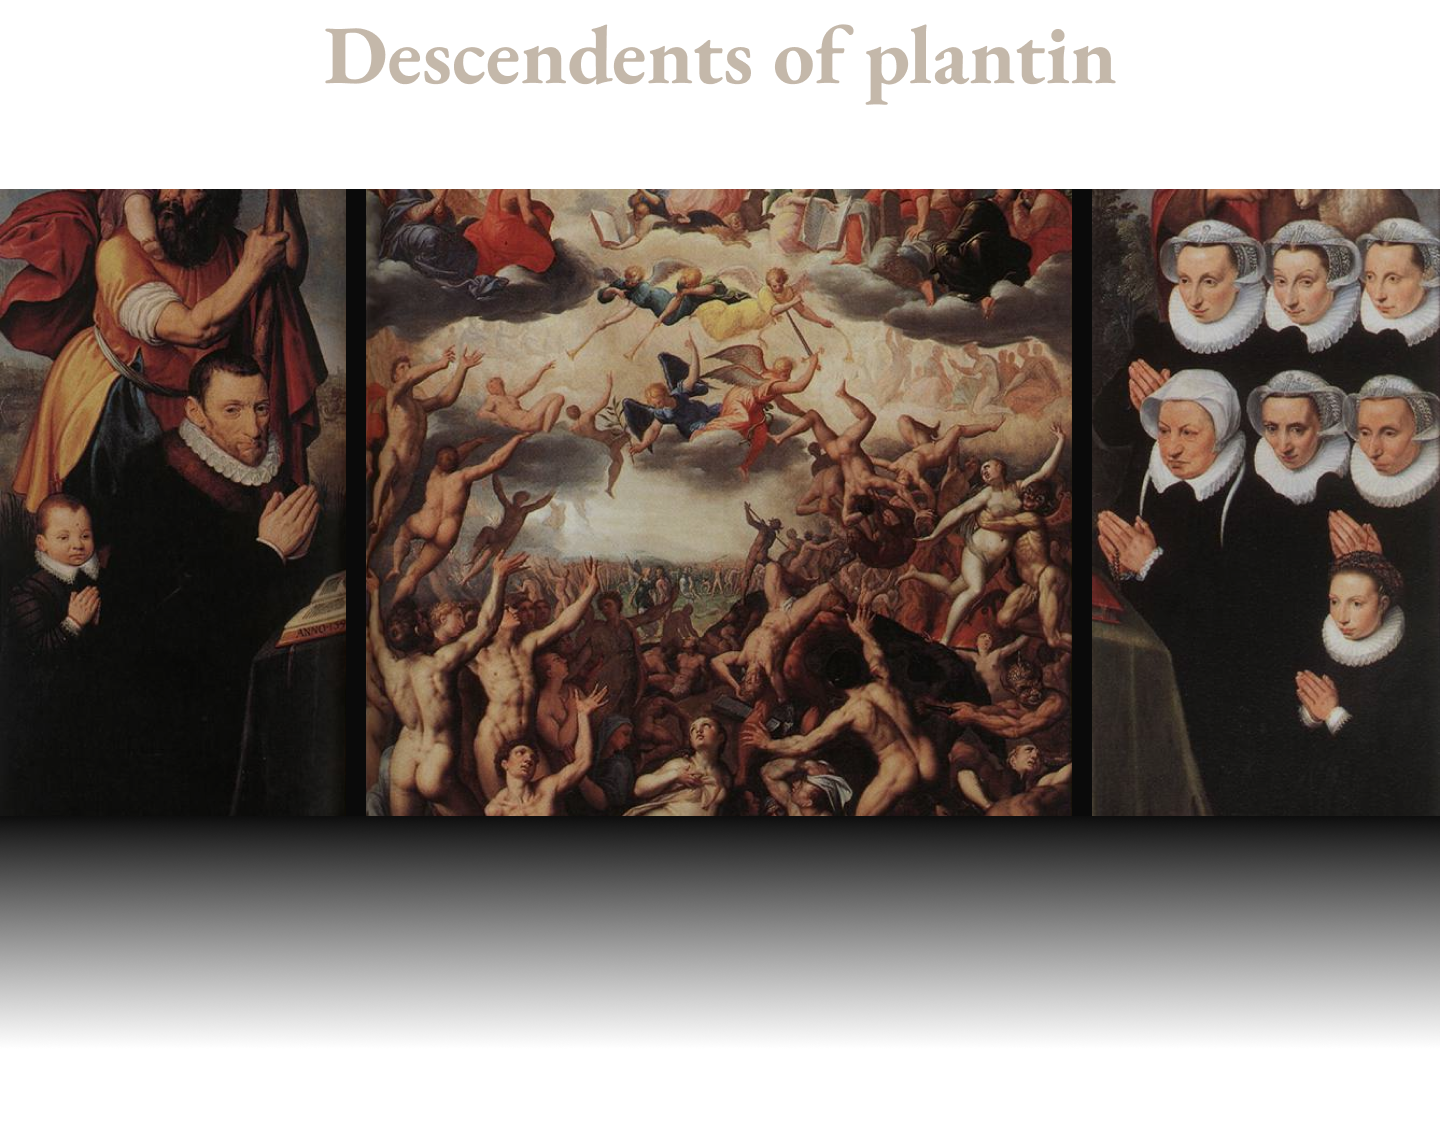
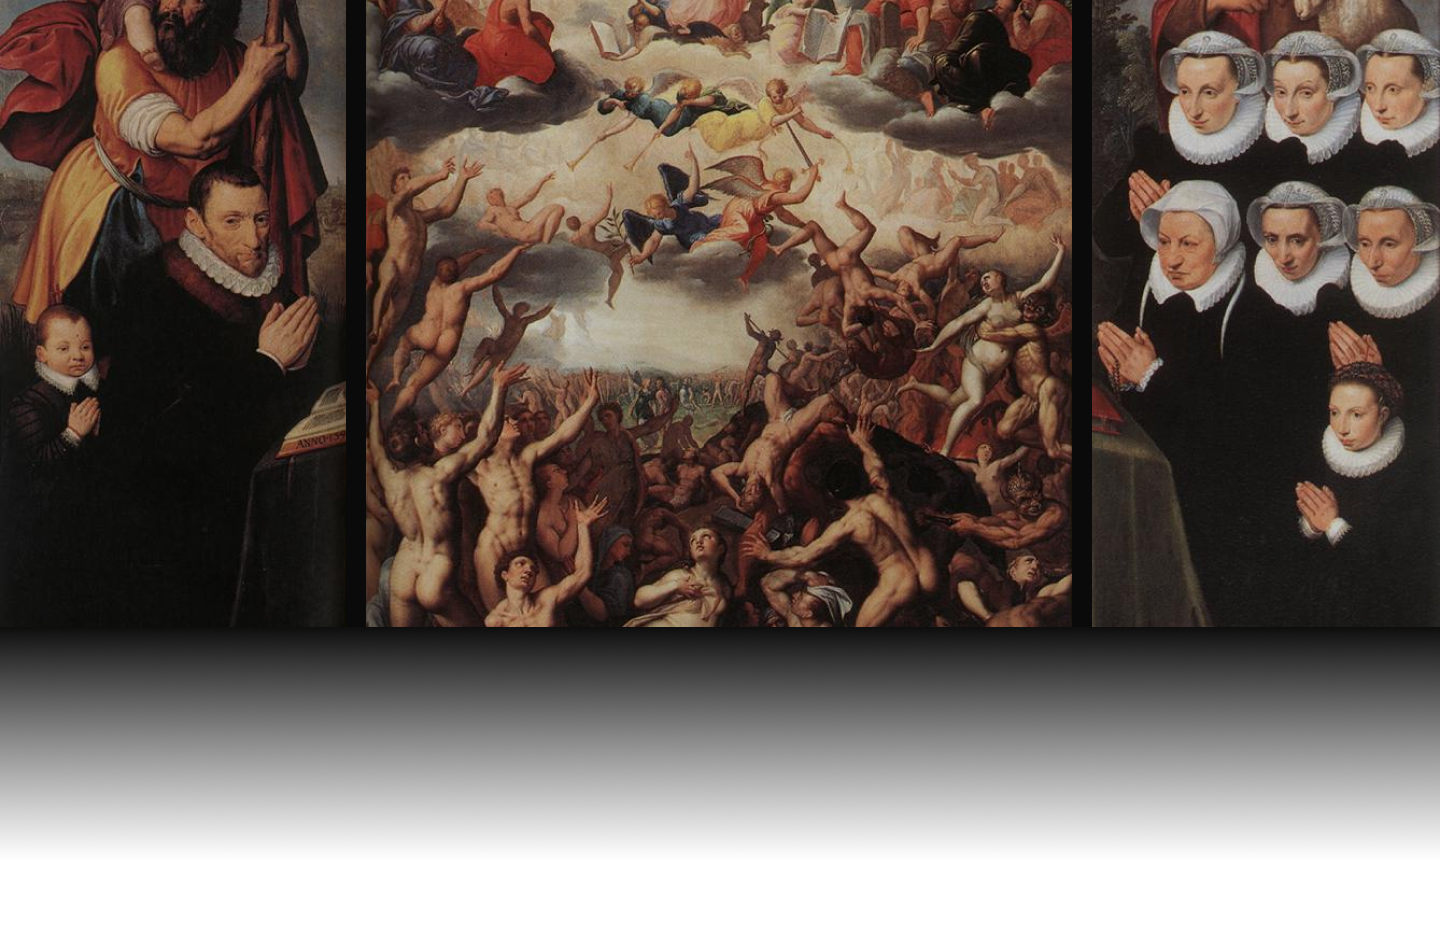
added popup

diff --git a/plantinmoretus/src/css/style.css b/plantinmoretus/src/css/style.css
@@ -10,10 +10,10 @@ body{
 
 
 h2{
-  font-family: "EB Garamond", serif;
+  color: #ede3d7;
   font-size: 3rem;
   font-weight: 700;
-  color: #C4B8AA;
+  font-family: "EB Garamond", serif;
 }
 
 .background{
@@ -477,8 +477,8 @@ a {
   color: #ede3d7;
   font-size: 3rem;
   font-weight: 700;
-  text-align: left;
   font-family: "EB Garamond", serif;
+  text-align: left;
   margin-bottom: 2rem;
 
 }
@@ -634,8 +634,68 @@ a {
 }
 
 .info__listen img {
-  width: 20px;
+  max-width:max-content;
   height: 20px;
+}
+
+.descendents__image{
+  width: 100%;
+  position: relative;
+}
+
+.descendents__image--img{
+  width: 100%;
+}
+
+.descendents__circle{
+  position: absolute;
+  width: 1.25rem;
+  height: 1.25rem;
+  background-color: #f0c674;
+  border: 2px solid #e0b85c;
+  border-radius: 50%;
+  cursor: pointer;
+  transform: translate(-50%, -50%);
+}
+
+.descendents__circle:hover{
+  background-color: #e0b85c;
+}
+
+.descendents__popup{
+  display: none;
+  position: fixed;
+  left: 50%;
+  top: 50%;
+  transform: translate(-50%, -50%);
+  background-color: #ede3d7;
+  padding: 1rem;
+  border-radius: .5rem;
+  z-index: 10;
+  text-align: center;
+}
+
+.descendents__popup--close{
+  position: absolute;
+  top: .625rem;
+  right: .625rem;
+  size: 1.5rem;
+  font-weight: bold;
+  cursor: pointer;
+
+}
+
+.descendents__popup--close:hover{
+  color: #d5d5d5;
+}
+
+.descendents__title{
+  color: #ede3d7;
+  font-size: 3rem;
+  font-weight: 700;
+  font-family: "EB Garamond", serif;
+  text-align: center;
+  padding-bottom: 1rem;
 }
 
 

diff --git a/plantinmoretus/index.html b/plantinmoretus/index.html
@@ -287,8 +287,24 @@
     </section>
 
     <section class="descendents">
+      <h2 class="descendents__title">Descendents of plantin </h2>
       <div class="descendents__image">
         <img class="descendents__image--img" src="./src/images/descendents.png" alt="descendents plantin">
+        <div class="descendents__circle" style="top: 35%; left: 16%;" data-info="Info about person 1"></div>
+        <div class="descendents__circle" style="top: 45%; left: 5%;" data-info="Info about person 2"></div>
+        <div class="descendents__circle" style="top: 50%; right: 2%;" data-info="Info about person 3"></div>
+        <div class="descendents__circle" style="top: 32%; right: 1%;" data-info="Info about person 4"></div>
+        <div class="descendents__circle" style="top: 32%; right: 7%;" data-info="Info about person 5"></div>
+        <div class="descendents__circle" style="top: 32%; right: 15%;" data-info="Info about person 6"></div>
+        <div class="descendents__circle" style="top: 15%; right: 13%;" data-info="Info about person 7"></div>
+        <div class="descendents__circle" style="top: 15%; right: 6%;" data-info="Info about person 8"></div>
+        <div class="descendents__circle" style="top: 15%; right: 1%;" data-info="Info about person 9"></div>
+
+      </div>
+
+      <div class="descendents__popup">
+        <span class="descendents__popup--close">&times;</span>
+        <p class="descendents__popup--content"></p>
       </div>
     </section>
 

diff --git a/plantinmoretus/src/js/popup.js b/plantinmoretus/src/js/popup.js
@@ -1,0 +1,26 @@
+// Select all circles and the popup elements
+const circles = document.querySelectorAll('.descendents__circle');
+const popup = document.querySelector('.descendents__popup');
+const popupContent = document.querySelector('.descendents__popup--content');
+const popupClose = document.querySelector('.descendents__popup--close');
+
+// Add event listeners to each circle
+circles.forEach(circle => {
+  circle.addEventListener('click', (event) => {
+    const info = circle.getAttribute('data-info'); // Get the info from the data attribute
+    popupContent.textContent = info; // Set the popup content
+    popup.style.display = 'block'; // Show the popup
+  });
+});
+
+// Close the popup when the close button is clicked
+popupClose.addEventListener('click', () => {
+  popup.style.display = 'none'; // Hide the popup
+});
+
+// Close the popup when clicking outside of it
+window.addEventListener('click', (event) => {
+  if (event.target === popup) {
+    popup.style.display = 'none';
+  }
+});

diff --git a/plantinmoretus/src/main.js b/plantinmoretus/src/main.js
@@ -1,4 +1,4 @@
 import '../src/css/style.css'
 import '../src/css/reset.css'
 import '../src/js/cursor'
-
+import '../src/js/popup'
